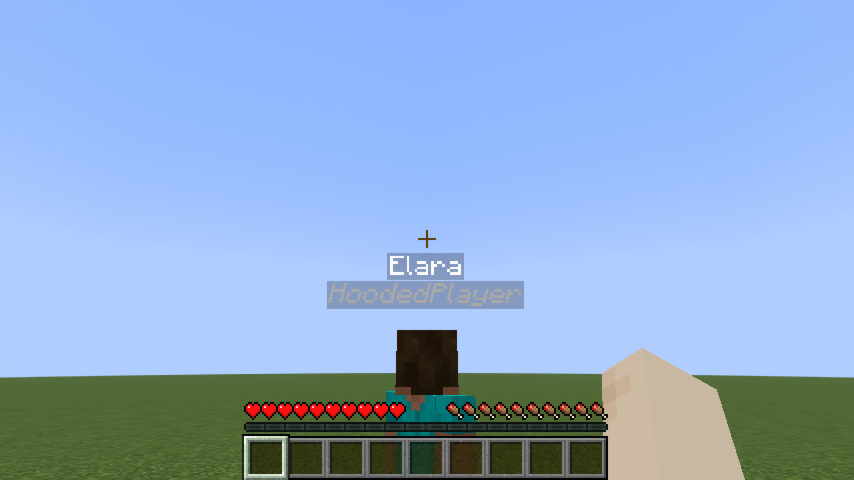
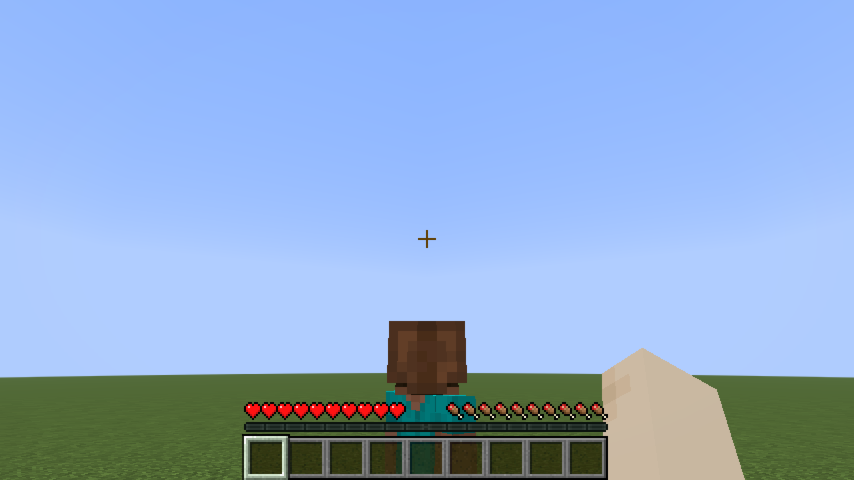
🐛 Corriger le tag conceals_identity et la synchro équipement du test
- Renommer tags/items/ → tags/item/ (changement Minecraft 1.20.5+)
- Forcer l'équipement côté client dans le test (EmbeddedChannel ne
  propage pas les changements d'équipement au client)

Changed region(s): [[0.3653, 0.5, 0.6393, 0.8438], [0.2131, 0.9688, 0.274, 1.0]]

diff --git a/src/client/java/net/minecraftfr/roleplaychat/test/client/NameplateHeadgearDisplayTest.java b/src/client/java/net/minecraftfr/roleplaychat/test/client/NameplateHeadgearDisplayTest.java
@@ -69,6 +69,16 @@ public class NameplateHeadgearDisplayTest implements FabricClientGameTest {
             });
 
             context.waitTicks(20);
+
+            // L'équipement du mock player ne se propage pas via EmbeddedChannel —
+            // on le force directement sur l'entité côté client
+            context.runOnClient(mc -> {
+                var mockPlayer = mc.world.getPlayerByUuid(UUID_HEADGEAR);
+                if (mockPlayer != null) {
+                    mockPlayer.equipStack(EquipmentSlot.HEAD, new ItemStack(Items.LEATHER_HELMET));
+                }
+            });
+
             context.runOnClient(mc -> RpNameClientCache.set(UUID_HEADGEAR, "Elara"));
             context.waitTicks(5);
 
